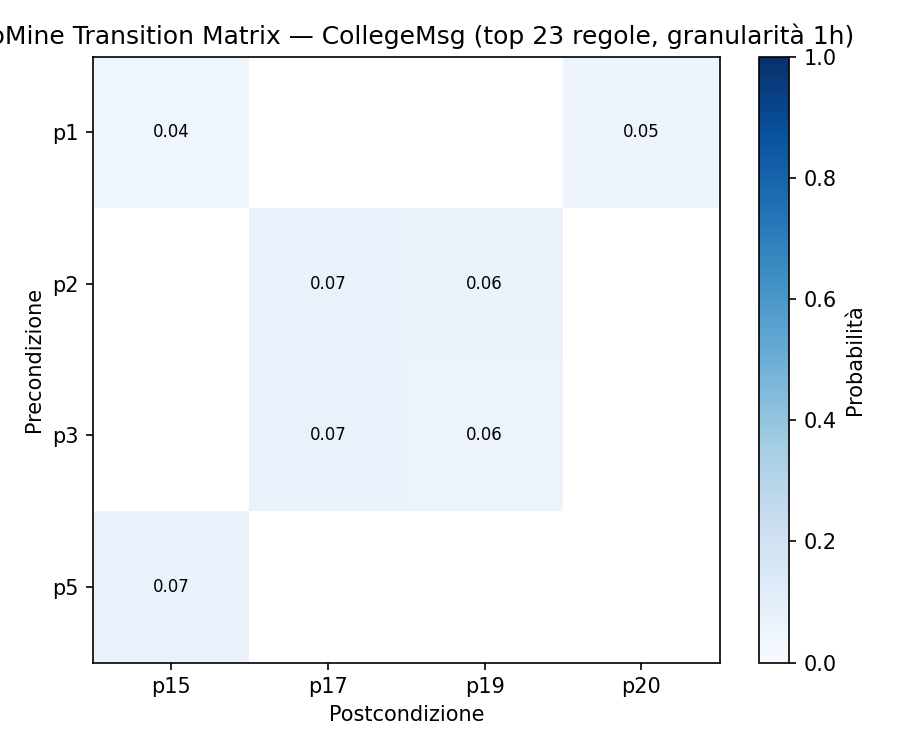
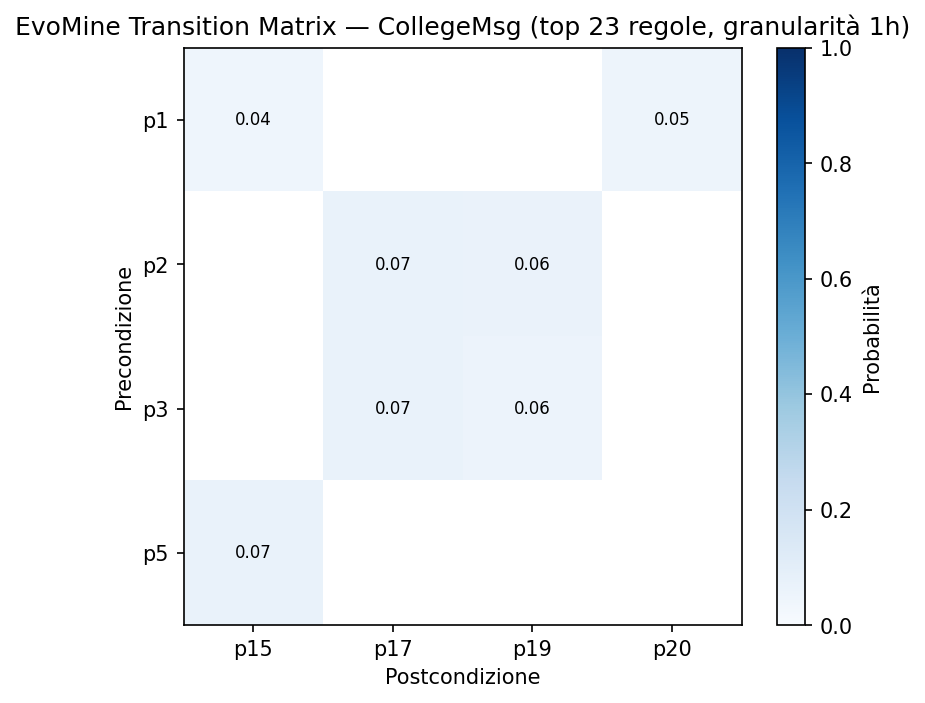
lezione 05 js base

diff --git a/lab/CLAUDE.md b/lab/CLAUDE.md
@@ -89,7 +89,27 @@
   verificato), solo rietichettata con i codici corti p1..pN — probabilità
   calcolata escludendo lo stato di non-estensione 'S' dal denominatore,
   come in Task 3 dopo la correzione della correlatrice
-- Report: lab/task_5/task5_comparison.ipynb
+- **Chiarimento della correlatrice sulle 0 celle in comune**: le 0 celle
+  condivise tra le transition matrix finali sono attese per costruzione
+  (MTM ed EvoMine tracciano l'evoluzione della rete in modo diverso), non
+  un errore. Usare la stessa struttura di visualizzazione (transition
+  matrix, stesso formato heatmap) per entrambi gli algoritmi serve al
+  confronto qualitativo affiancato, non a garantire sovrapposizione
+  numerica — assi, codici e valori restano specifici di ciascun algoritmo.
+  Il confronto realmente informativo è sui pattern individuali della
+  codifica canonica condivisa: dei 148 codici totali, 3 pattern a 2 archi
+  sono condivisi tra MTM ed EvoMine (`p18`=`0_1_0-0_2_1`,
+  `p21`=`0_1_0-2_0_1`, `p36`=`0_1_0-1_0_1`). Le rispettive frequenze
+  relative (count/supporto del pattern sul totale dei pattern trovati da
+  ciascun algoritmo: 3202 su tutti i 60 motif MTM, 256498 sulle 62 regole
+  EvoMine) differiscono di 30-40× in valore assoluto (es. `p18`: 20.08% in
+  MTM contro 0.61% in EvoMine) ma conservano lo stesso ordinamento
+  qualitativo in entrambe le fonti (`p18 > p21 > p36`) — indicazione di
+  complementarità tra i due algoritmi più che di sovrapponibilità diretta.
+  Dettagli in `task_5/output_data/shared_patterns_comparison.csv` e
+  sezione "8. Discussion" del report.
+- Report: lab/task_5/task5_comparison.ipynb,
+  lab/task_5/report_task5_completo.docx / .pdf
 
 ## Dataset usati
 - CollegeMsg: lab/task_1/task_1_SNAP/CollegeMsg.txt
@@ -150,16 +170,19 @@ lab/
         └── structural_evolution_summary.txt
 └── task_5/             ← Confronto MTM↔EvoMine, codifica canonica GERANIO ✅
     ├── task5_comparison.ipynb
+    ├── report_task5_completo.docx / .pdf
     ├── output_png/
     │   ├── support_distribution.png
     │   ├── evomine_transition_matrix.png
     │   ├── mtm_transition_matrix_geranio.png
-    │   └── comparison_heatmaps.png
+    │   ├── comparison_heatmaps.png
+    │   └── shared_patterns_frequency.png    (freq. relativa dei 3 pattern condivisi, MTM vs EvoMine)
     └── output_data/
         ├── canonical_mapping.csv        (unione codici lunghi MTM+EvoMine → p1..pN, fonte)
         ├── evomine_top_rules.csv        (top 23 regole per supporto)
         ├── evomine_transition_matrix.csv
-        └── mtm_transition_matrix_geranio.csv
+        ├── mtm_transition_matrix_geranio.csv
+        └── shared_patterns_comparison.csv   (i 3 pattern condivisi: ruolo/count/freq.rel. in MTM vs EvoMine)
 ```
 
 ## Note tecniche importanti